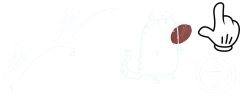
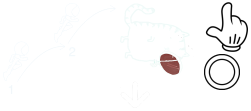
Added animation for the tutorial object

Changed region(s): [[0.6914, 0.0, 1.0, 0.8351], [0.6337, 0.4639, 0.7202, 0.6804]]

diff --git a/Classes/Tutorial.cpp b/Classes/Tutorial.cpp
@@ -42,6 +42,7 @@ void Tutorial::setupMovement()
 	auto * handSeq = Sequence::create(MoveTo::create(1, handPos + Vec2(40, 0)), MoveTo::create(1, handPos - Vec2(40, 0)), NULL);
 	auto * handAction = RepeatForever::create(handSeq);
 	hand->runAction(handAction);
+	hand->setOpacity(200);
 
 	Sprite * leftArrow = Sprite::createWithSpriteFrameName("arrow.png");
 	leftArrow->setPosition(Vec2(visibleSize.width / 4 - 100, visibleSize.height / 6));
@@ -52,20 +53,39 @@ void Tutorial::setupMovement()
 	auto * arrowAction = RepeatForever::create(arrowSeq);
 	leftArrow->runAction(arrowAction);
 	rightArrow->runAction(arrowAction->clone());
+	leftArrow->setOpacity(200);
+	rightArrow->setOpacity(200);
 
 	this->addChild(hand);
 	this->addChild(leftArrow);
 	this->addChild(rightArrow);
-	hand->setOpacity(200);
-	leftArrow->setOpacity(200);
-	rightArrow->setOpacity(200);
 }
 
 void Tutorial::setupJump()
 {
+	Sprite * touch = Sprite::createWithSpriteFrameName("touch.png");
+	touch->setPosition(Vec2(3 * visibleSize.width / 4, visibleSize.height / 2 - 160));
+	touch->setOpacity(200);
+	float d = 0.7;
+	auto fadeO = FadeTo::create(d, 20);
+	auto fadeI = FadeTo::create(d, 200);
+	auto fadeTouch = Sequence::create(fadeO, fadeI, NULL);
+	touch->runAction(RepeatForever::create(fadeTouch));
+
 	Sprite * doubleJump = Sprite::createWithSpriteFrameName("doubleJump.png");
 	doubleJump->setPosition(Vec2(3 * visibleSize.width / 4, visibleSize.height / 2));
+	auto fadeOdj = FadeTo::create(d, 160);
+	auto fadeIdj = FadeTo::create(d, 255);
+	auto fadeDoubleJump = Sequence::create(fadeOdj, fadeIdj, NULL);
+	doubleJump->runAction(RepeatForever::create(fadeDoubleJump));
+
+	Sprite * hand = Sprite::createWithSpriteFrameName("hand.png");
+	hand->setPosition(Vec2(3 * visibleSize.width / 4, visibleSize.height / 2 - 200));
+	hand->setOpacity(200);
+
+	this->addChild(touch);
 	this->addChild(doubleJump);
+	this->addChild(hand);
 }
 
 
